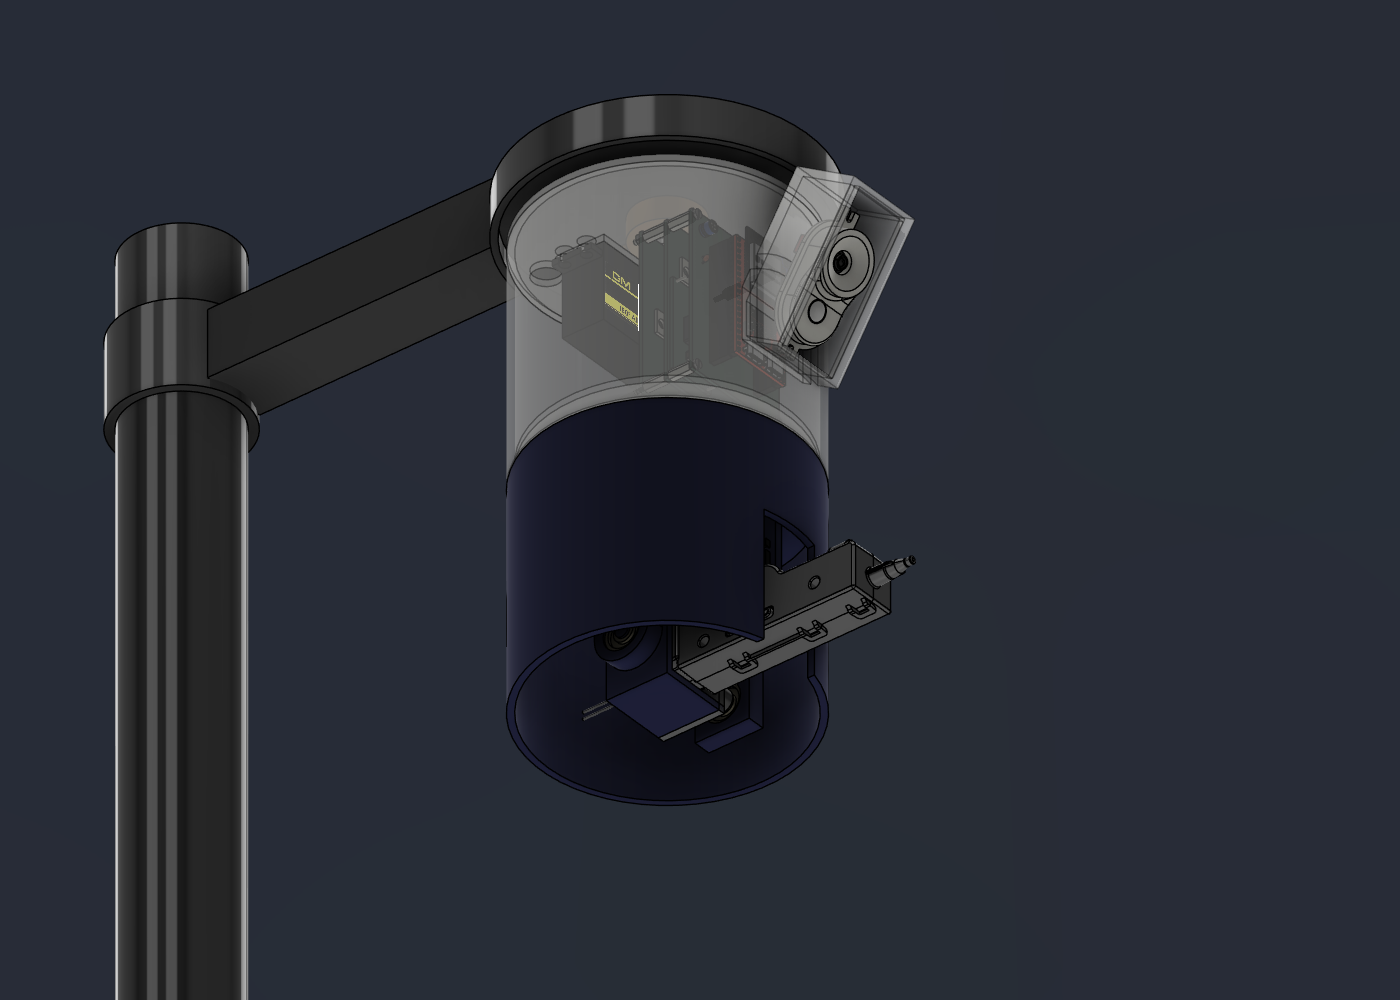
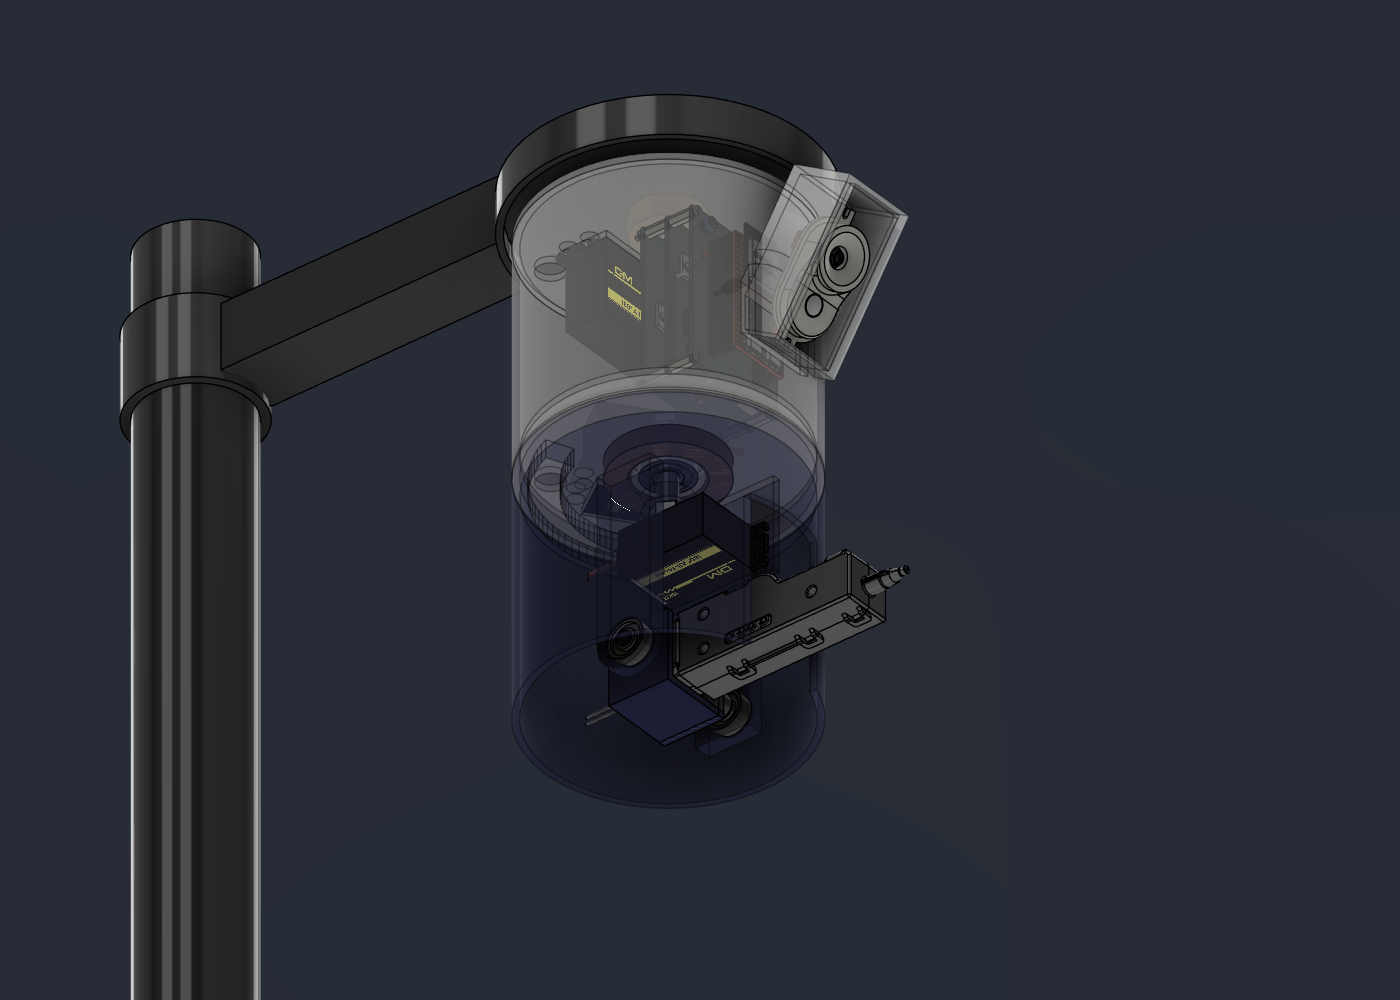
Docs: water tower con sitio para un envoltorio de la pistola (tilt 72/24, tambor de 100 mm, ranura de 39 mm) y el DM996 de pan de la pistola girado, lejos del rodamiento

diff --git a/3D/water-tower/README.md b/3D/water-tower/README.md
@@ -17,7 +17,7 @@ El poste va desplazado a la derecha para que la pistola llegue a la esquina de l
 
 ## Cómo está montado
 
-Es una columna de Ø116 × 217 mm colgada del brazo: arriba el **cuerpo** con la electrónica y debajo el **tambor** con la pistola, del mismo diámetro. El cuerpo hace de techo de la pistola.
+Es una columna de Ø116 × 227 mm colgada del brazo: arriba el **cuerpo** con la electrónica y debajo el **tambor** con la pistola, del mismo diámetro. El cuerpo hace de techo de la pistola.
 
 - **Soporte fijo (farola):**
   - Poste Ø48 y brazo de tubo cuadrado de 30.
@@ -29,16 +29,18 @@ Es una columna de Ø116 × 217 mm colgada del brazo: arriba el **cuerpo** con la
   - El DM996 del pan va detrás de la torreta, colgado de la tapa. Su piñón (z20) rueda alrededor del engranaje fijo (z30) del sombrero. Con 180° de servo da ±60°, y para que la cámara vea toda la huerta hace falta de −31° a +57° (ver [Qué ve la cámara](#qué-ve-la-cámara-a-3-m)).
   - Como el servo gira con el cuerpo, no hace falta anillo rozante.
   - Por debajo del suelo, la pared del cuerpo baja 8 mm más como faldón y tapa los engranajes del pan de la pistola.
-- **Tambor de la pistola (pan de la pistola):** Ø116 × 90 mm, abierto por abajo.
+- **Tambor de la pistola (pan de la pistola):** Ø116 × 100 mm, abierto por abajo.
   - Cuelga del suelo del cuerpo por un M8 y gira sobre el mismo eje que el conjunto.
   - El DM996 del pan de la pistola va en el cuerpo, boca abajo sobre el suelo, y saca el eje por una ventana del suelo. Su piñón (z21) mueve el engranaje z48 que el tambor lleva sobre su plato. Da ±39°.
-  - Delante tiene una ranura por la que asoma la boquilla y que deja subir y bajar la pistola.
+  - Va girado de modo que el cuerpo del servo queda hacia atrás, a lo largo de la pared, y no hacia el eje: así queda a 12,6 mm del axial y a 12,8 del 22-8-7 (con el servo recto quedaba a 1 mm).
+  - Delante tiene una ranura de 39 mm de ancho (`pist_ranura`) por la que asoma la boquilla y que deja subir y bajar la pistola. Llega hasta 45 mm por encima del eje de tilt y deja unos 7 mm a cada lado de la pistola, para un envoltorio.
   - Hay un pasacables en arco en el plato (±48°) para la manguera y los cables.
 - **Pistola (tilt):**
   - Va en una cuna que gira en dos 17-6-6 en los brazos del tambor. Está centrada con la cámara: la boquilla queda en el mismo plano vertical que la lente.
   - El DM996 de tilt va tumbado encima de la pistola, entre los dos brazos, con el eje sobre el eje de tilt. Cuelga del plato por un soporte con ventana, como en el brazo de smart-sentry.
-  - Mueve un sector z54 de la cuna con un piñón z18 (3:1), como el sector de tilt de smart-sentry. Da 60° de recorrido: de 15° hacia arriba a 45° hacia abajo.
-  - El servo va 36 mm por encima del eje (`a_tilt`) para que no lo toque la pistola: al bajar la boquilla, la cuna y el bloque del motor suben hasta 20 mm por encima del eje.
+  - Mueve un sector z72 de la cuna con un piñón z24 (3:1), como el sector de tilt de smart-sentry. Da 60° de recorrido: de 15° hacia arriba a 45° hacia abajo.
+  - El servo va 48 mm por encima del eje (`a_tilt`) para dejar sitio a un envoltorio de la pistola. En todo el recorrido, la pistola queda como mínimo a 13,8 mm del servo (en los dos extremos) y a 24 mm con la pistola horizontal.
+  - Sin contar el servo, la pistola podría girar de unos 27° hacia arriba (toca el borde de arriba de la ranura) a 72° hacia abajo (toca el servo).
   - El eje de tilt pasa por el bloque del motor, así la parte de atrás apenas sube al bajar la boquilla.
 
 Los engranajes son cilindros con el **diámetro primitivo** (m·z), de modo que los de cada pareja se tocan justo en la línea de engrane.
@@ -64,7 +66,7 @@ En smart-sentry el axial está entre la base y la parte que gira porque el peso 
 | --- | --- | --- | --- |
 | Pan del conjunto | 30 / 20 | 1,5:1 | ±60° |
 | Pan de la pistola | 48 / 21 | 2,29:1 | ±39° |
-| Tilt de la pistola | 54 / 18 (sector) | 3:1 | 60° (−15° / +45°) |
+| Tilt de la pistola | 72 / 24 (sector) | 3:1 | 60° (−15° / +45°) |
 
 La pistola apunta a la suma de los dos pan: ±99° respecto al brazo. La huerta queda entre −67° y +84°, así que el giro sobra. Lo que limita es el alcance del chorro (ver [Hasta dónde llega la pistola](#hasta-dónde-llega-la-pistola)).
 
@@ -77,10 +79,11 @@ Todo está en *Modificar → Cambiar parámetros*:
 | `modulo` | 1 mm | Diámetro de todos los engranajes y distancias entre ejes |
 | `z_fijo`, `z_pinon` | 30, 20 | Pan del conjunto (`a_pan` se recalcula sola) |
 | `z_eng_pist`, `z_pin_pist` | 48, 21 | Pan de la pistola (`a_pist`) |
-| `z_eng_tilt`, `z_pin_tilt` | 54, 18 | Tilt de la pistola (`a_tilt`) |
+| `z_eng_tilt`, `z_pin_tilt` | 72, 24 | Tilt de la pistola (`a_tilt`) |
 | `casquillo_d`, `buje_rod_d` | 12, 28 mm | Casquillos de los 22-8-7 y buje del 22-8-7 bajo el suelo |
 | `plato_esp` | 8 mm | Grosor del plato del tambor |
-| `pist_caida` | 68 mm | Del plato del tambor al eje de tilt |
+| `pist_caida` | 78 mm | Del plato del tambor al eje de tilt |
+| `pist_ranura` | 39 mm | Ancho de la ranura del tambor por la que asoma la pistola |
 | `pist_y` | 0 mm | Desplazamiento de la pistola hacia un lado (0: centrada con la cámara) |
 | `pist_eng_y` | 22.5 mm | Cara interior del sector de tilt; deja sitio al DM996 de tilt entre los brazos |
 | `pist_mejilla`, `pist_brazo_esp` | 13.5, 8 mm | Anchura de la cuna y grosor de los brazos |
@@ -94,9 +97,9 @@ Hay cosas que no siguen a los parámetros:
 
 Las tres articulaciones (`Pan conjunto` ±60°, `Pan pistola` ±39°, `Tilt pistola` −15°/+45°, positivo hacia abajo) se pueden arrastrar para comprobar los barridos.
 
-Se comprobaron las colisiones en el centro, en los dos extremos y en dos poses cruzadas, sin la Freenove. Solo se solapan los ejes de los servos con sus piñones (es lo esperado) y los cables del DM996 de pan con la pared: en el modelo salen rectos 15 mm y en la realidad se doblan.
+Se comprobaron las colisiones en el centro, en los dos extremos y en dos poses cruzadas, sin la Freenove. Solo se solapan los ejes de los servos con sus piñones, que es lo esperado.
 
-Lo que más se acerca a la pared del cuerpo o del tambor (radio interior 55 mm): la torreta a 54 mm, el DM996 del pan de la pistola a 53,4, la cola de la pistola a 46,1 y el DM996 de tilt a 42,3.
+Lo que más se acerca a la pared del cuerpo o del tambor (radio interior 55 mm): la torreta a 54 mm, el DM996 del pan de la pistola a 50,3, la cola de la pistola a 46,1 y el DM996 de tilt a 42,3.
 
 El componente oculto **Campo de visión cámara** dibuja los rayos de la cámara hacia el suelo.
 
@@ -164,17 +167,17 @@ En las vistas de esta sección están apagadas las capas de la cámara.
 **Cómo se ha calculado:**
 
 - El chorro se trata como un tiro con rozamiento cuadrático, ajustado a las [medidas en banco](../../esphome/docs/bambulab-zc005-water-gun.md#medidas-en-banco): desde 1,3 m cae a ~5 m a 0° y a ~7 m a 20° hacia arriba. Eso da 13 m/s de salida y k ≈ 0,15 /m.
-- La boquilla está a 2,86 m del suelo y 113 mm por delante del eje de tilt.
+- La boquilla está a 2,85 m del suelo y 113 mm por delante del eje de tilt.
 
 Las medidas se hicieron con la pistola en su carcasa de fábrica. Montada en la torreta, con otra manguera y otra alimentación, hay que volver a medirla.
 
 | Tilt | Cae a | Altura máxima del chorro |
 | --- | --- | --- |
 | −15° (arriba) | 7,8 m | 3,3 m |
-| 0° | 6,7 m | 2,86 m |
-| +15° | 5,1 m | 2,83 m |
-| +30° | 3,6 m | 2,80 m |
-| +45° (abajo) | 2,4 m | 2,78 m |
+| 0° | 6,7 m | 2,85 m |
+| +15° | 5,1 m | 2,82 m |
+| +30° | 3,6 m | 2,79 m |
+| +45° (abajo) | 2,4 m | 2,77 m |
 
 El chorro alcanza de **2,4 a 7,8 m** del eje en todo el giro:
 
@@ -209,6 +212,6 @@ Vista desde la cámara, la zona de tiro (morado) llega hasta unos 8 m. Mirando a
   - Entran por el pasacables de la tapa, bajan por el del suelo y pasan al tambor por el arco del plato.
   - Fuera del sombrero necesitan un bucle de holgura, porque el conjunto gira ±60°. Entre el suelo y el plato no hace falta: el arco del plato abarca ±48° y el tambor gira ±39°.
   - La pistola no aspira 3 m, así que el depósito tiene que ir arriba, junto al brazo.
-- Engranajes de módulo 1 con DM996: con el servo bloqueado, el par puede romper los dientes impresos del piñón de tilt (z18). En uso normal la carga es pequeña.
+- Engranajes de módulo 1 con DM996: con el servo bloqueado, el par puede romper los dientes impresos del piñón de tilt (z24). En uso normal la carga es pequeña.
 - El casquillo de la tapa (Ø12 con paso de 8,5) tiene paredes de 1,75 mm. Solo trabaja a compresión, pero conviene imprimirlo macizo.
 - Exterior: el sombrero tapa los engranajes del pan del conjunto, el faldón del cuerpo los de la pistola y el cuerpo hace de tejado del tambor. La ranura de delante del tambor y su fondo quedan abiertos.
